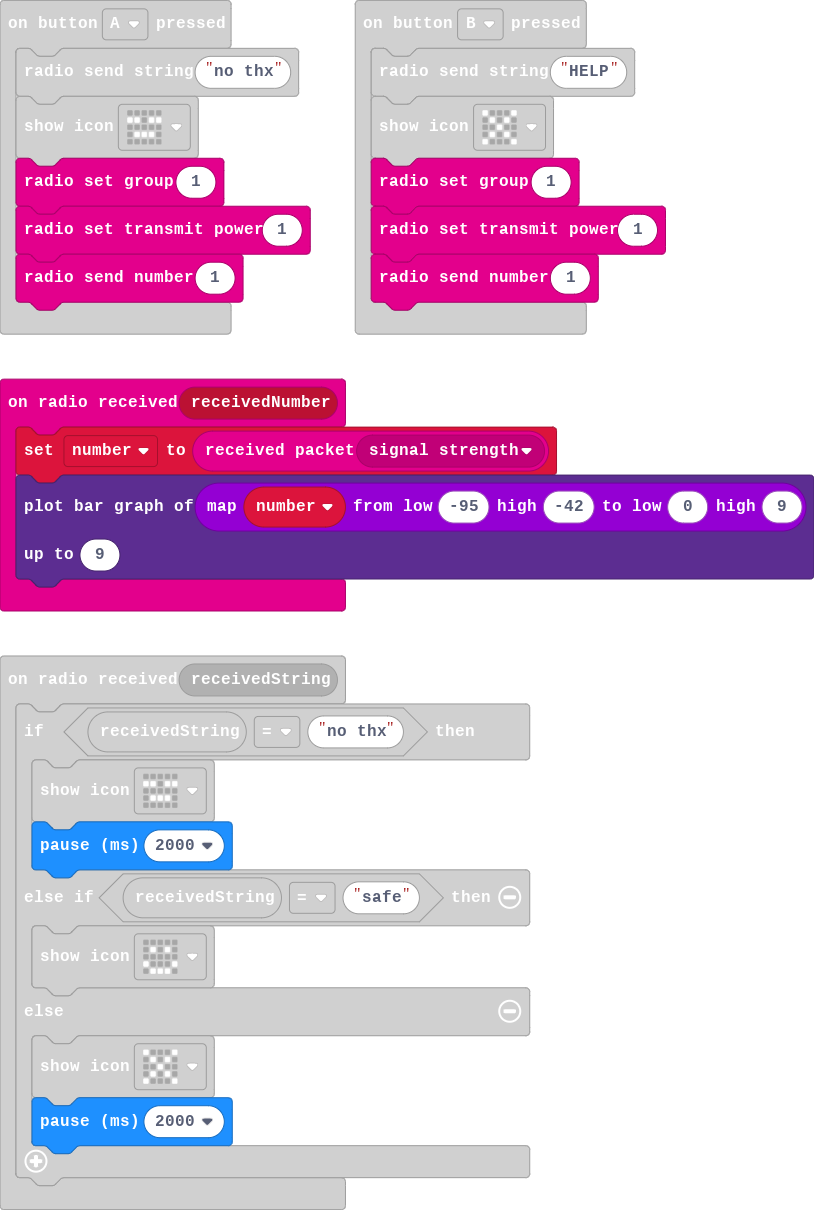
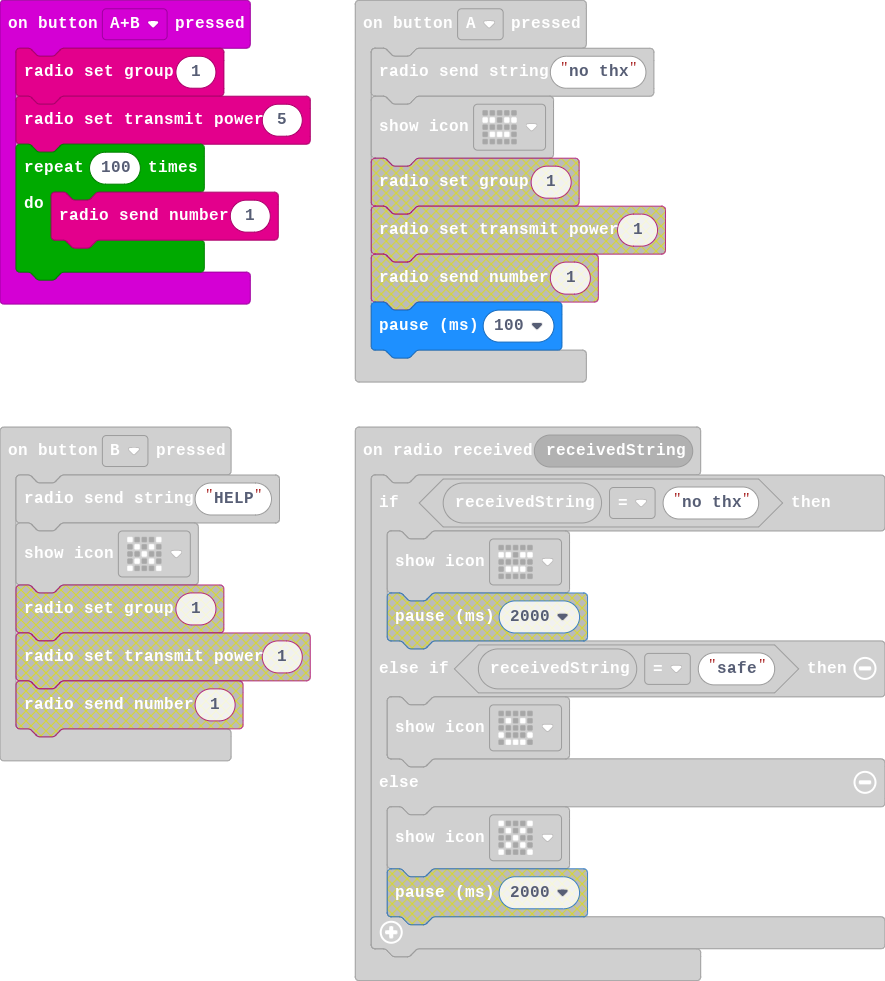
Update main.blocks, main.ts

diff --git a/main.ts b/main.ts
@@ -8,27 +8,27 @@ radio.onReceivedNumber(function (receivedNumber) {
 input.onButtonPressed(Button.A, function () {
     radio.sendString("no thx")
     basic.showIcon(IconNames.Asleep)
+    basic.pause(100)
+})
+input.onButtonPressed(Button.AB, function () {
     radio.setGroup(1)
-    radio.setTransmitPower(1)
-    radio.sendNumber(1)
+    radio.setTransmitPower(5)
+    for (let index = 0; index < 100; index++) {
+        radio.sendNumber(1)
+    }
 })
 radio.onReceivedString(function (receivedString) {
     if (receivedString == "no thx") {
         basic.showIcon(IconNames.Asleep)
-        basic.pause(2000)
     } else if (receivedString == "safe") {
         basic.showIcon(IconNames.Happy)
     } else {
         basic.showIcon(IconNames.No)
-        basic.pause(2000)
     }
 })
 input.onButtonPressed(Button.B, function () {
     radio.sendString("HELP")
     basic.showIcon(IconNames.No)
-    radio.setGroup(1)
-    radio.setTransmitPower(1)
-    radio.sendNumber(1)
 })
 input.onLogoEvent(TouchButtonEvent.Pressed, function () {
     radio.sendString("safe")
